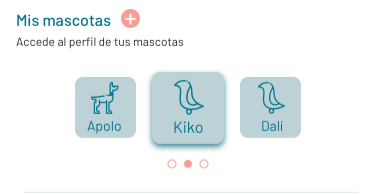
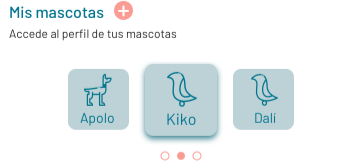
resize adopcion page

diff --git a/React_Lucky_Frontend/src/pages/AdopcionPage/AdopcionPage.jsx b/React_Lucky_Frontend/src/pages/AdopcionPage/AdopcionPage.jsx
@@ -19,7 +19,7 @@ const AdopcionPage = () => {
         <input type="text" className="c-adopcionPage-search__input" placeholder="Buscar" onChange={onSearch} />
         <img className="c-adopcionPage-search__logo" src={SearchLogo} alt="lupa" />
       </div>
-      <img src={TemporalImg} alt="temp img" />
+      <img className="c-adopcionPage__tmp"src={TemporalImg} alt="temp img" />
       <Link className="c-Link" to="/estado"><div className="c-adopcionPage__button">
         <div className="c-profile-top__button__left">
           <p className="c-profile-top__button__p">Estado de la adopción</p>

diff --git a/React_Lucky_Frontend/src/pages/AdopcionPage/AdopcionPage.scss b/React_Lucky_Frontend/src/pages/AdopcionPage/AdopcionPage.scss
@@ -8,6 +8,10 @@
   &::-webkit-scrollbar {
     display: none;
   }
+  &__tmp{
+    position:relative;
+    bottom: 2%;
+  }
   &__button {
     display: flex;
     justify-content: space-between;
@@ -15,7 +19,6 @@
     width: 99%;
     height: 6vh;
     border-radius: 6px;
-    margin-top: 14px;
     padding-top: 4px;
   }
 
@@ -47,6 +50,7 @@
     align-items: center;
     margin-top: 14px;
     &__h3 {
+      margin: 0px;
       color: var(--color-primary-quaternary);
       font-weight: 500;
     }

diff --git a/React_Lucky_Frontend/src/shared/components/Fav/Fav.jsx b/React_Lucky_Frontend/src/shared/components/Fav/Fav.jsx
@@ -1,5 +1,5 @@
 import { useState } from "react";
-import FavImg from "../../../assets/PerfilAnimales/favoritos.png";
+import FavImg from "../../../assets/PerfilAnimales/hearth.png";
 import FavImg2 from "../../../assets/PerfilAnimales/favoritos2.png";
 
 import "./Fav.scss";

diff --git a/React_Lucky_Frontend/src/shared/components/Card/Card.scss b/React_Lucky_Frontend/src/shared/components/Card/Card.scss
@@ -7,6 +7,7 @@
     top: 60px;
     left: 85%;
     width: 24px;
+ 
   }
 
   &__img {
